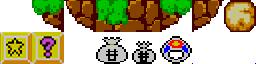
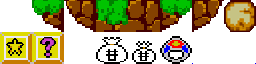
Ghost persigue a Alex

Changed region(s): [[0.0, 0.5, 0.25, 1.0], [0.375, 0.5938, 0.625, 0.9688]]

diff --git a/scripts/ak_sprites_enemies.js b/scripts/ak_sprites_enemies.js
@@ -182,7 +182,7 @@ Quintus.AKSpritesEnemies = function(Q) {
                 gravity: 0,
                 dormido: true,
                 esperando: true,
-                MaxVivo: 3,
+                MaxVivo: 8,
                 contVivo: 0,
                 esperaMax: 2,
                 contEspera: 0
@@ -206,19 +206,44 @@ Quintus.AKSpritesEnemies = function(Q) {
                     this.p.contEspera += dt;
                     if (this.p.contEspera > this.p.esperaMax) {
                         this.p.esperando = false;
+						this.p.collisionMask = '';
+						this.p.sensor = true;
                     }
                 } else {
                     this.p.contVivo += dt;
                     if (this.p.contVivo > this.p.MaxVivo) {
                         this.destroy();
                     } else {
-                        this.p.vx = -40;
+						PlayerX = Q.stages[0].lists["Alex"][0].p.x;
+						PlayerY = Q.stages[0].lists["Alex"][0].p.y;
+						if(this.p.x ==  PlayerX) {
+							this.play("stand_left"); 
+						}
+                        if(this.p.x > PlayerX) {
+						   this.p.x = this.p.x - 1.5;
+						   this.play("stand_left");
+					    }
+						else if(this.p.x < PlayerX) {
+						   this.p.x = this.p.x + 1.5;
+						   this.play("stand_right");
+						}
+						else {
+						   this.p.x += 0;
+						   this.play("stand_right");
+						}
+
+						if(this.p.y >= PlayerY) {
+						   this.p.y = this.p.y - 1.5;
+						}
+						else if(this.p.y < PlayerY) {
+						   this.p.y = this.p.y + 1.5;
+						}
+						else this.p.y = this.p.y;
                     }
                 }
             }
         }
     });
-
 
     Q.animations("GhostAnimation", {
         stand_right: { frames: [0, 1], flip: 'x', rate: 1, loop: true },

diff --git a/scripts/ak_game.js b/scripts/ak_game.js
@@ -23,8 +23,8 @@ window.addEventListener("load", function() {
         "alex.png", "bird.png", "frog.png", "frog.json", "scorpion.png",
         "tiles.png", "coin.ogg", "coin.mp3", "punch.ogg", "fist.png",
         "menu01.png", "menu02.png", "menu03.png", "menu04.png", "menu05.png",
-        "menu06.png", "menu07.png", "menu08.png", "map.png", "alexmap.png", "ghost.png", "arrow.png"
-    ], function() {
+        "menu06.png", "menu07.png", "menu08.png", "map.png", "alexmap.png",
+		"ghost.png", "arrow.png", "logo.png"], function() {
         Q.sheet("alex", "alex.png", { tilew: 32, tileh: 48 });
         Q.sheet("bird", "bird.png", { tilew: 48, tileh: 32 });
         Q.sheet("scorpion", "scorpion.png", { tilew: 32, tileh: 28 });
@@ -33,6 +33,7 @@ window.addEventListener("load", function() {
         Q.sheet("alexmap", "alexmap.png", { tilew: 64, tileh: 90 });
         Q.sheet("arrow", "arrow.png", { tilew: 15, tileh: 24 });
         Q.sheet("ghost", "ghost.png", { tilew: 32, tileh: 32 });
+		 Q.sheet("logo", "logo.png", { tilew: 800, tileh: 600 });
         Q.loadTMX("level1.tmx", function() {
             Q.stageScene("menu");
         });

diff --git a/scripts/ak_scenes.js b/scripts/ak_scenes.js
@@ -181,6 +181,7 @@ Quintus.AKScenes = function(Q) {
                 stage.insert(new Q.Menu({ asset: menus[++count], action: true }));
             }
         });
+		
     });
 
     Q.Sprite.extend("Map", {
